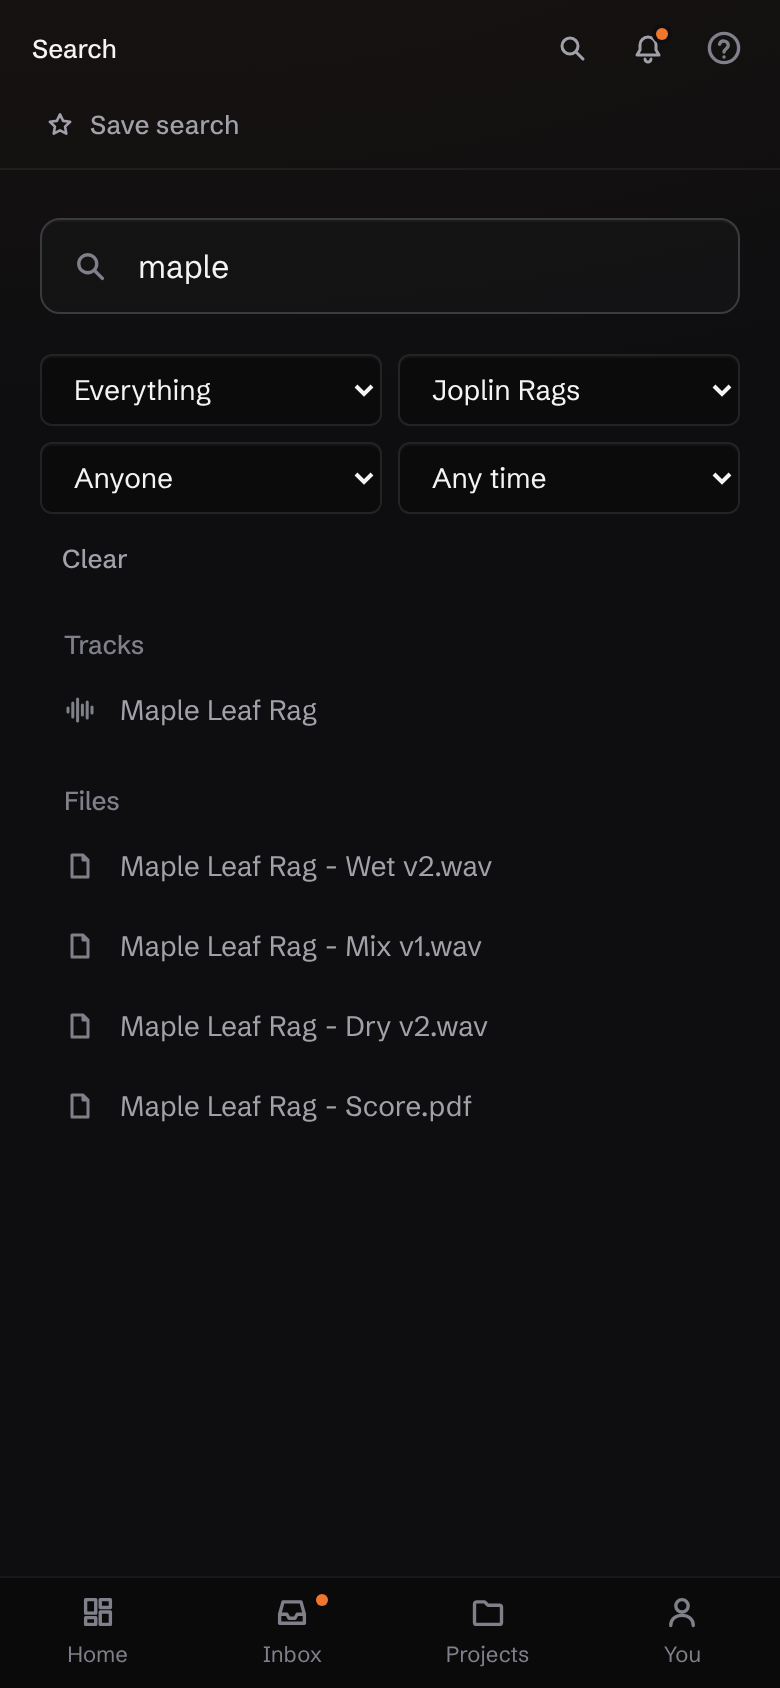
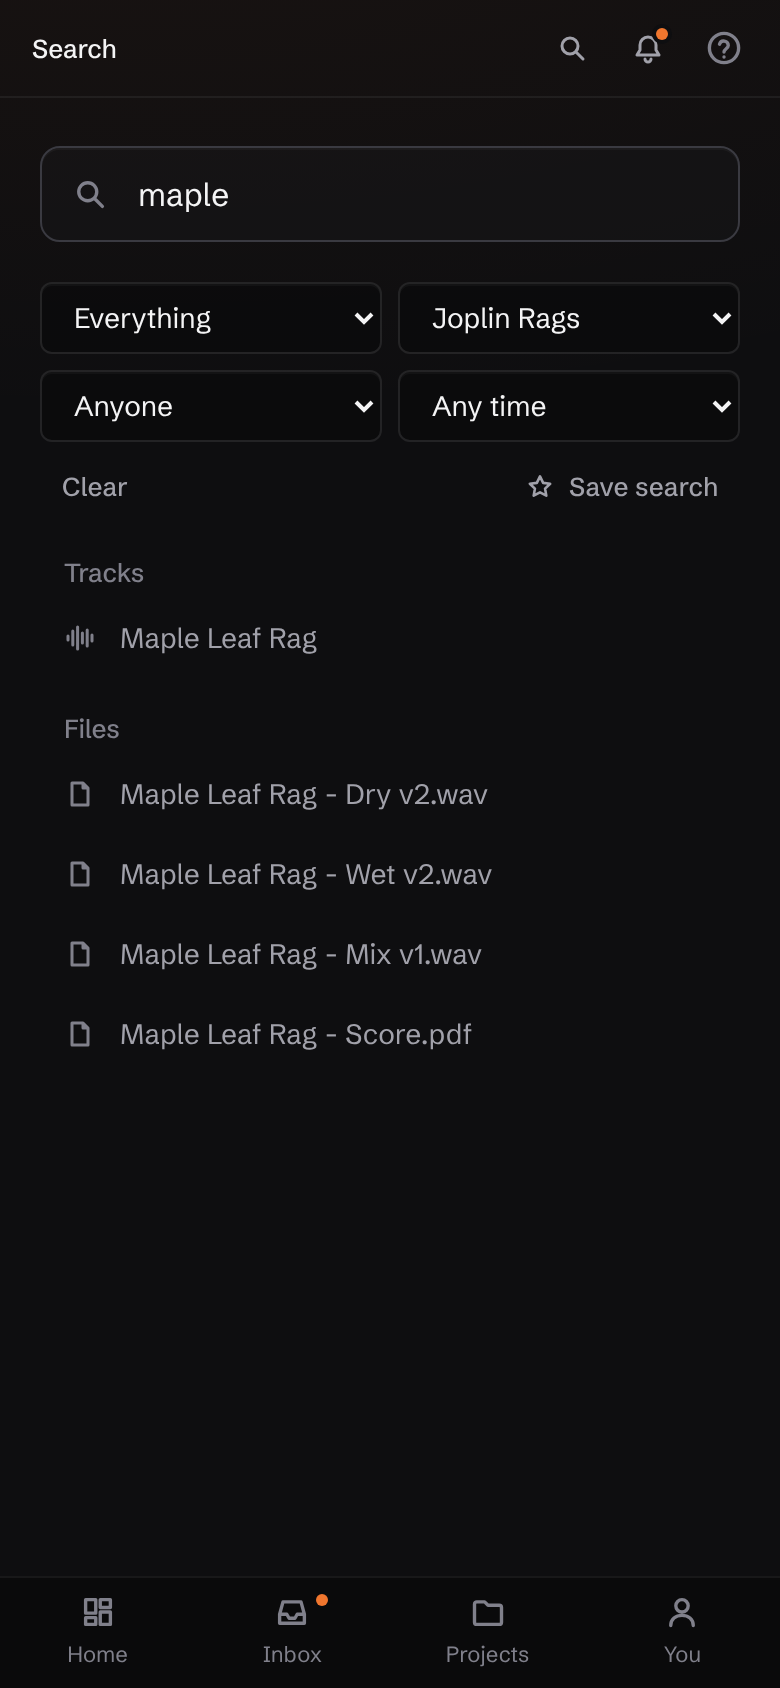
fix: search review findings
- Save search sits beside the filters, so a phone keeps one header row.
- The field follows the address unless the change is its own write still
  on its way, rather than any words ever typed.
- The field stops at the API's 200 characters.
- A people search with no words lists members.

Claude-Session: https://claude.ai/code/session_015McpuV22robxh4tHA5c4P8

diff --git a/apps/web/src/routes/search.tsx b/apps/web/src/routes/search.tsx
@@ -59,11 +59,16 @@ export function SearchPage({ search }: { search: SearchRequest }) {
   const [text, setText] = useState(search.q);
   const [saving, setSaving] = useState(false);
   // The address can change under the page (a saved search, the palette); the field follows,
-  // but not back to words it wrote itself while typing ran ahead of the address.
-  const written = useRef(new Set<string>([search.q]));
+  // but not back to words it wrote itself while typing ran ahead of the address. `pending`
+  // holds the words written and not yet arrived, oldest first; anything else came from outside.
+  const pending = useRef<string[]>([]);
   useEffect(() => {
-    if (written.current.has(search.q)) return;
-    written.current = new Set([search.q]);
+    const at = pending.current.indexOf(search.q);
+    if (at >= 0) {
+      pending.current = pending.current.slice(at + 1);
+      return;
+    }
+    pending.current = [];
     setText(search.q);
   }, [search.q]);
 
@@ -86,17 +91,7 @@ export function SearchPage({ search }: { search: SearchRequest }) {
 
   return (
     <>
-      <PageHeader
-        title="Search"
-        actions={
-          looking && (
-            <Button variant="ghost" size="sm" onClick={() => setSaving(true)}>
-              <Icon name="star" size={14} />
-              Save search
-            </Button>
-          )
-        }
-      />
+      <PageHeader title="Search" />
       <Page width="narrow" className="gap-5">
         <div className="relative">
           <Icon
@@ -108,11 +103,12 @@ export function SearchPage({ search }: { search: SearchRequest }) {
             value={text}
             onChange={(e) => {
               setText(e.target.value);
-              written.current.add(e.target.value);
+              pending.current.push(e.target.value);
               go({ q: e.target.value });
             }}
             placeholder="Projects, tracks, files, reviews, people and comments"
             aria-label="Search"
+            maxLength={200}
             // biome-ignore lint/a11y/noAutofocus: the page exists to be typed into.
             autoFocus
             className="h-12 w-full rounded-panel-lg border border-line bg-raised/40 pr-4 pl-12 text-[16px] text-ink shadow-1 placeholder:text-ink-3 focus:border-edge-strong focus:outline-none @3xl/app:pr-36"
@@ -140,7 +136,7 @@ export function SearchPage({ search }: { search: SearchRequest }) {
             aria-label="Project"
             value={search.projectId ?? ""}
             onChange={(e) => go({ projectId: e.target.value || undefined })}
-            className="@3xl/app:w-40"
+            className="@3xl/app:w-36"
           >
             <option value="">Any project</option>
             {projects.map((p) => (
@@ -153,7 +149,7 @@ export function SearchPage({ search }: { search: SearchRequest }) {
             aria-label="Person"
             value={search.personId ?? ""}
             onChange={(e) => go({ personId: e.target.value || undefined })}
-            className="@3xl/app:w-40"
+            className="@3xl/app:w-36"
           >
             <option value="">Anyone</option>
             {members.map((m) => (
@@ -179,7 +175,7 @@ export function SearchPage({ search }: { search: SearchRequest }) {
             <Button
               variant="ghost"
               size="sm"
-              className="col-span-2 justify-self-start"
+              className="justify-self-start"
               onClick={() =>
                 go({
                   kind: undefined,
@@ -193,13 +189,25 @@ export function SearchPage({ search }: { search: SearchRequest }) {
               Clear
             </Button>
           )}
+          {/* Beside the filters it keeps, not in the header, so a phone keeps one header row. */}
+          {looking && (
+            <Button
+              variant="ghost"
+              size="sm"
+              className="col-start-2 justify-self-end @3xl/app:ml-auto"
+              onClick={() => setSaving(true)}
+            >
+              <Icon name="star" size={14} />
+              Save search
+            </Button>
+          )}
         </div>
         {!words && saved.length > 0 && (
           <Saved
             saved={saved}
             onOpen={(s) => {
               setText(s.search.q);
-              written.current.add(s.search.q);
+              pending.current.push(s.search.q);
               void navigate({ to: "/search", search: compact(s.search), replace: true });
             }}
           />

diff --git a/apps/server/src/routes/search.ts b/apps/server/src/routes/search.ts
@@ -235,13 +235,21 @@ export const searchRoutes = (db: Database) =>
                 .orderBy(...order(words.comments, comments.createdAt))
                 .limit(limit)
             : none,
-          // People are few: a name match is enough, with no index needed.
-          wanted("people") && q
+          // People are few: a name match is enough, with no index needed. With no words, the
+          // filters alone list them (by when they joined, if a time is set).
+          wanted("people")
             ? db
                 .select({ id: users.id, name: users.name, role: members.role })
                 .from(members)
                 .innerJoin(users, eq(users.id, members.userId))
-                .where(inOrg(members, organisationId, ilike(users.name, `%${literal(q)}%`)))
+                .where(
+                  inOrg(
+                    members,
+                    organisationId,
+                    q ? ilike(users.name, `%${literal(q)}%`) : undefined,
+                    after(members.createdAt),
+                  ),
+                )
                 .orderBy(users.name)
                 .limit(limit)
             : none,

diff --git a/apps/server/src/app.test.ts b/apps/server/src/app.test.ts
@@ -2204,6 +2204,13 @@ describe.runIf(url)("api", () => {
         )[0]?.id;
 
         expect(await find("q=mix&kind=files")).toEqual(["files:Mix v1.wav"]);
+        // A kind alone is a search too, people included.
+        expect((await find("kind=people")).sort()).toEqual([
+          "people:Producer",
+          "people:accompanist",
+          "people:composer",
+          "people:engineer",
+        ]);
         // Filters alone list the newest of what they allow.
         expect(await find(`kind=reviews&projectId=${s.projectId}`)).toEqual(["reviews:Mix notes"]);
         expect(await find(`personId=${ownerId}&kind=reviews`)).toEqual(["reviews:Mix notes"]);
